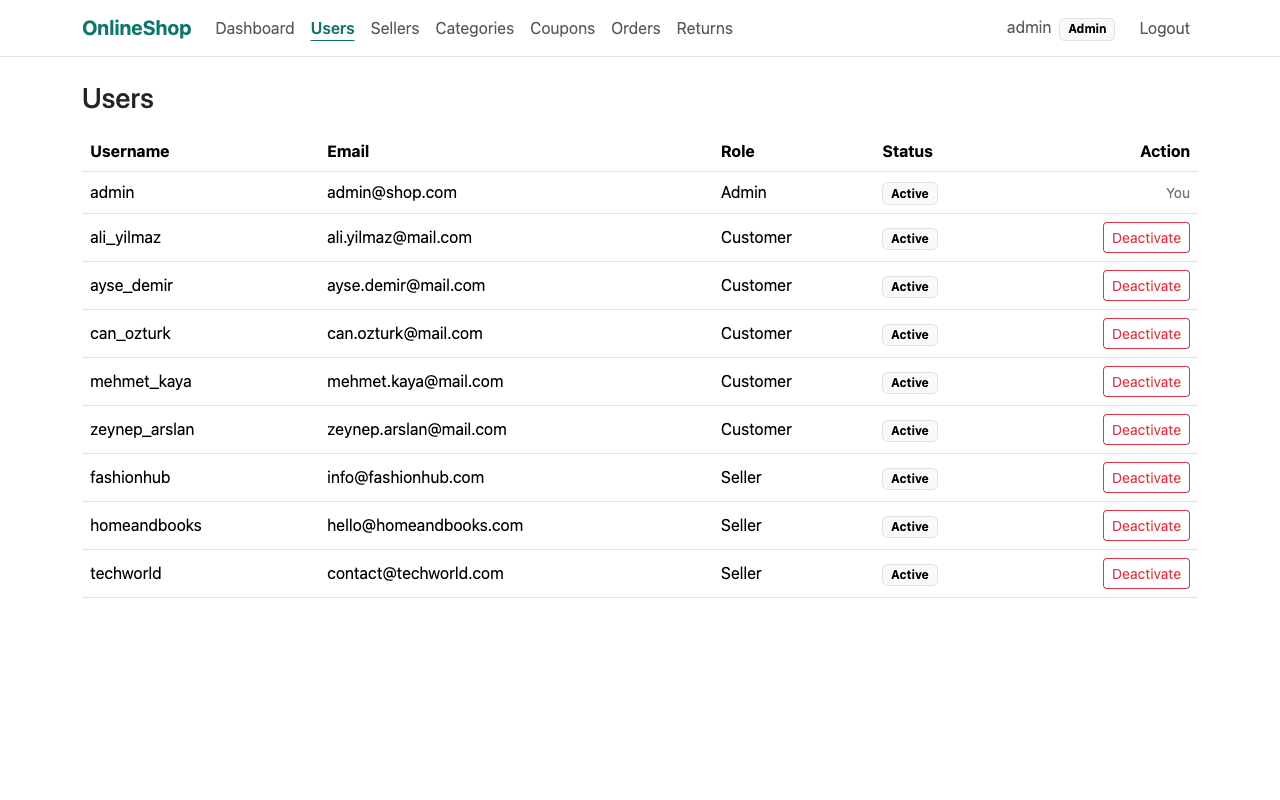
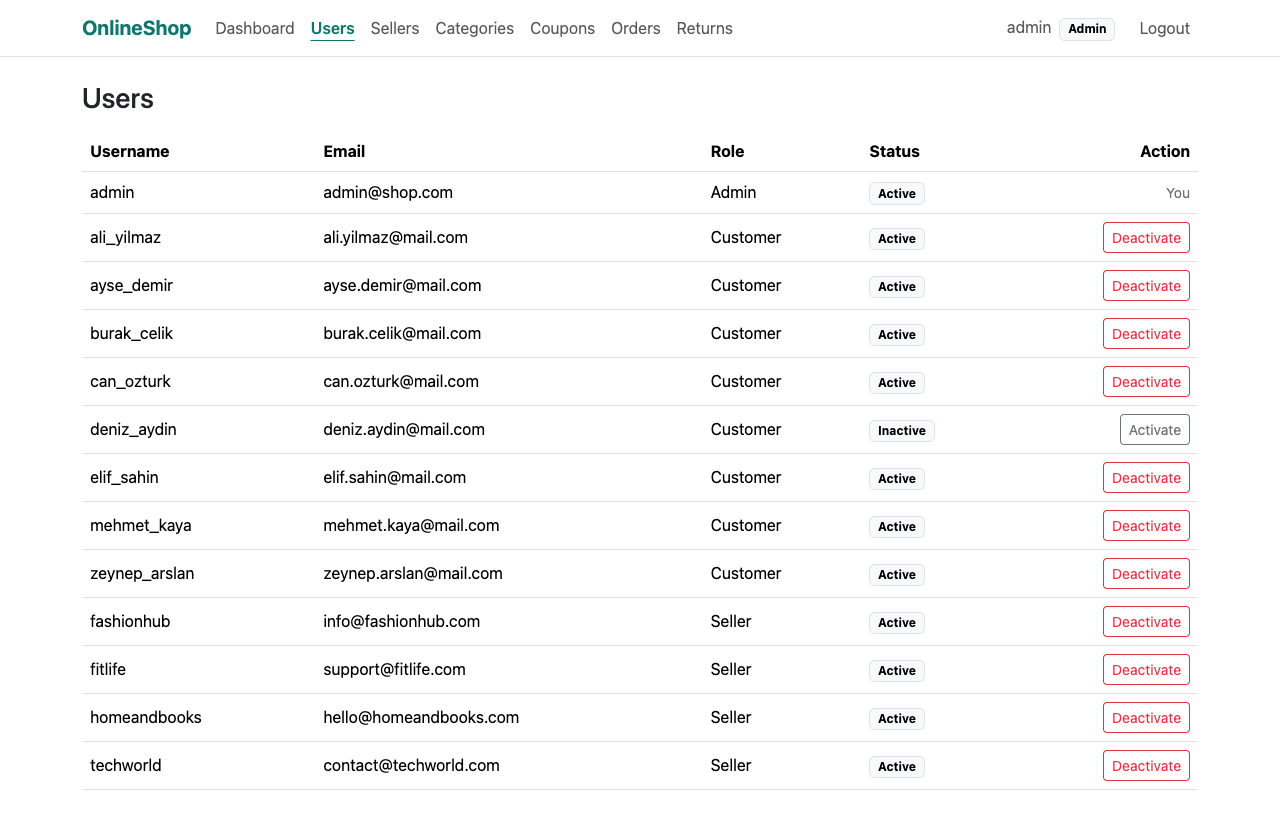
docs: retake screenshots with the team seed, update class diagrams

diff --git a/docs/diagrams/class/class-3-checkout.html b/docs/diagrams/class/class-3-checkout.html
@@ -21,9 +21,9 @@
     <p class="eyebrow">UML class · Online Shopping Management System</p>
     <h1>Placing an order · class diagram</h1>
     <div class="scroll">
-    <svg viewBox="0 0 1080 740" xmlns="http://www.w3.org/2000/svg" role="img" aria-labelledby="class-3-checkout-title class-3-checkout-desc">
+    <svg viewBox="0 0 1080 856" xmlns="http://www.w3.org/2000/svg" role="img" aria-labelledby="class-3-checkout-title class-3-checkout-desc">
       <title id="class-3-checkout-title">Placing an order · class diagram</title>
-      <desc id="class-3-checkout-desc">CheckoutController calls OrderService.placeOrder, which runs as one transaction and uses the cart, inventory, coupon, order and payment repositories.</desc>
+      <desc id="class-3-checkout-desc">CheckoutController calls OrderService.placeOrder, which runs as one transaction and uses the cart, inventory, coupon, order, payment and shipment repositories; previewOrder only reads, to show the summary before ordering.</desc>
       <defs>
         <marker id="uml-triangle" markerWidth="16" markerHeight="12" refX="15" refY="6" orient="auto" markerUnits="userSpaceOnUse">
           <polygon points="0 0, 16 6, 0 12" fill="#ffffff" stroke="#212529" stroke-width="1"/>
@@ -39,21 +39,23 @@
         </marker>
       </defs>
       <rect width="100%" height="100%" fill="#ffffff"/>
-      <path d="M 250,204 L 250,260" fill="none" stroke="#495057" stroke-width="1" stroke-dasharray="4,3" marker-end="url(#uml-open)"/>
+      <path d="M 250.0,224 L 250,260" fill="none" stroke="#495057" stroke-width="1" stroke-dasharray="4,3" marker-end="url(#uml-open)"/>
       <path d="M 460,286 L 492,286 Q 500,286 500,278 L 500,104 Q 500,96 508,96 L 600,96" fill="none" stroke="#495057" stroke-width="1" stroke-dasharray="4,3" marker-end="url(#uml-open)"/>
       <path d="M 460,312 L 532,312 Q 540,312 540,304 L 540,230 Q 540,222 548,222 L 600,222" fill="none" stroke="#495057" stroke-width="1" stroke-dasharray="4,3" marker-end="url(#uml-open)"/>
       <path d="M 460,338 L 600,338" fill="none" stroke="#495057" stroke-width="1" stroke-dasharray="4,3" marker-end="url(#uml-open)"/>
-      <path d="M 460,364 L 532,364 Q 540,364 540,372 L 540,456 Q 540,464 548,464 L 600,464" fill="none" stroke="#495057" stroke-width="1" stroke-dasharray="4,3" marker-end="url(#uml-open)"/>
-      <path d="M 460,390 L 492,390 Q 500,390 500,398 L 500,582 Q 500,590 508,590 L 600,590" fill="none" stroke="#495057" stroke-width="1" stroke-dasharray="4,3" marker-end="url(#uml-open)"/>
+      <path d="M 460,364 L 532,364 Q 540,364 540,372 L 540,476 Q 540,484 548,484 L 600,484" fill="none" stroke="#495057" stroke-width="1" stroke-dasharray="4,3" marker-end="url(#uml-open)"/>
+      <path d="M 460,390 L 492,390 Q 500,390 500,398 L 500,602 Q 500,610 508,610 L 600,610" fill="none" stroke="#495057" stroke-width="1" stroke-dasharray="4,3" marker-end="url(#uml-open)"/>
+      <path d="M 460,416 L 472,416 Q 480,416 480,424 L 480,708 Q 480,716 488,716 L 600,716" fill="none" stroke="#495057" stroke-width="1" stroke-dasharray="4,3" marker-end="url(#uml-open)"/>
       
-      <rect x="40" y="112" width="420" height="92" rx="6" fill="#ffffff"/>
-      <rect x="40" y="112" width="420" height="92" rx="6" fill="#ffffff" stroke="#212529" stroke-width="1"/>
+      <rect x="40" y="112" width="420" height="112" rx="6" fill="#ffffff"/>
+      <rect x="40" y="112" width="420" height="112" rx="6" fill="#ffffff" stroke="#212529" stroke-width="1"/>
       <text x="250.0" y="137" fill="#212529" font-size="14" font-weight="600" font-family="-apple-system, 'Segoe UI', Roboto, 'Helvetica Neue', Arial, sans-serif" text-anchor="middle">CheckoutController</text>
       <line x1="40" y1="152" x2="460" y2="152" stroke="rgba(33,37,41,0.18)" stroke-width="1"/>
       <text x="54" y="173" fill="#212529" font-size="11" font-family="ui-monospace, SFMono-Regular, Menlo, Consolas, monospace">+ checkout(user, model): String</text>
-      <text x="54" y="193" fill="#212529" font-size="11" font-family="ui-monospace, SFMono-Regular, Menlo, Consolas, monospace">+ placeOrder(user, addressId, ...): String</text>
-      <rect x="40" y="260" width="420" height="156" rx="6" fill="#ffffff"/>
-      <rect x="40" y="260" width="420" height="156" rx="6" fill="#f1f8f7" stroke="#0f766e" stroke-width="1"/>
+      <text x="54" y="193" fill="#212529" font-size="11" font-family="ui-monospace, SFMono-Regular, Menlo, Consolas, monospace">+ summary(user, companyId, code): Map</text>
+      <text x="54" y="213" fill="#212529" font-size="11" font-family="ui-monospace, SFMono-Regular, Menlo, Consolas, monospace">+ placeOrder(user, addressId, companyId, ...): String</text>
+      <rect x="40" y="260" width="420" height="196" rx="6" fill="#ffffff"/>
+      <rect x="40" y="260" width="420" height="196" rx="6" fill="#f1f8f7" stroke="#0f766e" stroke-width="1"/>
       <rect x="40" y="260" width="420" height="52" rx="6" fill="#dcedeb"/>
       <rect x="40" y="304" width="420" height="8" fill="#dcedeb"/>
       <text x="250.0" y="279" fill="#0f766e" font-size="10" font-family="ui-monospace, SFMono-Regular, Menlo, Consolas, monospace" text-anchor="middle" letter-spacing="0.04em">«service» · @Transactional</text>
@@ -61,9 +63,11 @@
       <line x1="40" y1="312" x2="460" y2="312" stroke="rgba(15,118,110,0.40)" stroke-width="1"/>
       <text x="54" y="333" fill="#212529" font-size="11" font-family="ui-monospace, SFMono-Regular, Menlo, Consolas, monospace">- PAYMENT_METHODS: List&lt;String&gt;</text>
       <line x1="40" y1="344" x2="460" y2="344" stroke="rgba(15,118,110,0.40)" stroke-width="1"/>
-      <text x="54" y="365" fill="#212529" font-size="11" font-family="ui-monospace, SFMono-Regular, Menlo, Consolas, monospace">+ placeOrder(customerId, addressId, code, method): int</text>
-      <text x="54" y="385" fill="#212529" font-size="11" font-family="ui-monospace, SFMono-Regular, Menlo, Consolas, monospace">- findValidCoupon(code, subtotal): Coupon</text>
-      <text x="54" y="405" fill="#212529" font-size="11" font-family="ui-monospace, SFMono-Regular, Menlo, Consolas, monospace">- calculateDiscount(coupon, subtotal): BigDecimal</text>
+      <text x="54" y="365" fill="#212529" font-size="11" font-family="ui-monospace, SFMono-Regular, Menlo, Consolas, monospace">+ placeOrder(customer, address, company, code, method): int</text>
+      <text x="54" y="385" fill="#212529" font-size="11" font-family="ui-monospace, SFMono-Regular, Menlo, Consolas, monospace">+ previewOrder(items, companyId, code): CheckoutSummary</text>
+      <text x="54" y="405" fill="#212529" font-size="11" font-family="ui-monospace, SFMono-Regular, Menlo, Consolas, monospace">+ cancelByCustomer(customerId, orderId): void</text>
+      <text x="54" y="425" fill="#212529" font-size="11" font-family="ui-monospace, SFMono-Regular, Menlo, Consolas, monospace">- findValidCoupon(found, code, subtotal): Coupon</text>
+      <text x="54" y="445" fill="#212529" font-size="11" font-family="ui-monospace, SFMono-Regular, Menlo, Consolas, monospace">- calculateDiscount(coupon, subtotal): BigDecimal</text>
       <rect x="600" y="40" width="440" height="112" rx="6" fill="#ffffff"/>
       <rect x="600" y="40" width="440" height="112" rx="6" fill="#ffffff" stroke="#212529" stroke-width="1"/>
       <text x="820.0" y="65" fill="#212529" font-size="14" font-weight="600" font-family="-apple-system, 'Segoe UI', Roboto, 'Helvetica Neue', Arial, sans-serif" text-anchor="middle">CartRepository</text>
@@ -77,39 +81,45 @@
       <line x1="600" y1="216" x2="1040" y2="216" stroke="rgba(33,37,41,0.18)" stroke-width="1"/>
       <text x="614" y="237" fill="#212529" font-size="11" font-family="ui-monospace, SFMono-Regular, Menlo, Consolas, monospace">+ lockStock(productId): int</text>
       <text x="614" y="257" fill="#212529" font-size="11" font-family="ui-monospace, SFMono-Regular, Menlo, Consolas, monospace">+ decreaseStock(productId, quantity): void</text>
-      <rect x="600" y="292" width="440" height="92" rx="6" fill="#ffffff"/>
-      <rect x="600" y="292" width="440" height="92" rx="6" fill="#ffffff" stroke="#212529" stroke-width="1"/>
+      <rect x="600" y="292" width="440" height="112" rx="6" fill="#ffffff"/>
+      <rect x="600" y="292" width="440" height="112" rx="6" fill="#ffffff" stroke="#212529" stroke-width="1"/>
       <text x="820.0" y="317" fill="#212529" font-size="14" font-weight="600" font-family="-apple-system, 'Segoe UI', Roboto, 'Helvetica Neue', Arial, sans-serif" text-anchor="middle">CouponRepository</text>
       <line x1="600" y1="332" x2="1040" y2="332" stroke="rgba(33,37,41,0.18)" stroke-width="1"/>
       <text x="614" y="353" fill="#212529" font-size="11" font-family="ui-monospace, SFMono-Regular, Menlo, Consolas, monospace">+ lockByCode(code): Optional&lt;Coupon&gt;</text>
-      <text x="614" y="373" fill="#212529" font-size="11" font-family="ui-monospace, SFMono-Regular, Menlo, Consolas, monospace">+ increaseUsedCount(couponId): void</text>
-      <rect x="600" y="408" width="440" height="112" rx="6" fill="#ffffff"/>
-      <rect x="600" y="408" width="440" height="112" rx="6" fill="#ffffff" stroke="#212529" stroke-width="1"/>
-      <text x="820.0" y="433" fill="#212529" font-size="14" font-weight="600" font-family="-apple-system, 'Segoe UI', Roboto, 'Helvetica Neue', Arial, sans-serif" text-anchor="middle">OrderRepository</text>
-      <line x1="600" y1="448" x2="1040" y2="448" stroke="rgba(33,37,41,0.18)" stroke-width="1"/>
-      <text x="614" y="469" fill="#212529" font-size="11" font-family="ui-monospace, SFMono-Regular, Menlo, Consolas, monospace">+ insertOrder(customerId, addressId, ...): int</text>
-      <text x="614" y="489" fill="#212529" font-size="11" font-family="ui-monospace, SFMono-Regular, Menlo, Consolas, monospace">+ insertItem(orderId, productId, qty, price): void</text>
-      <text x="614" y="509" fill="#212529" font-size="11" font-family="ui-monospace, SFMono-Regular, Menlo, Consolas, monospace">+ markPaid(orderId): void</text>
-      <rect x="600" y="544" width="440" height="92" rx="6" fill="#ffffff"/>
-      <rect x="600" y="544" width="440" height="92" rx="6" fill="#ffffff" stroke="#212529" stroke-width="1"/>
-      <text x="820.0" y="569" fill="#212529" font-size="14" font-weight="600" font-family="-apple-system, 'Segoe UI', Roboto, 'Helvetica Neue', Arial, sans-serif" text-anchor="middle">PaymentRepository</text>
-      <line x1="600" y1="584" x2="1040" y2="584" stroke="rgba(33,37,41,0.18)" stroke-width="1"/>
-      <text x="614" y="605" fill="#212529" font-size="11" font-family="ui-monospace, SFMono-Regular, Menlo, Consolas, monospace">+ insertCompleted(orderId, method, amount): void</text>
-      <text x="614" y="625" fill="#212529" font-size="11" font-family="ui-monospace, SFMono-Regular, Menlo, Consolas, monospace">+ insertPending(orderId, method, amount): void</text>
-      <line x1="40" y1="676" x2="1040" y2="676" stroke="rgba(33,37,41,0.18)" stroke-width="1"/>
-      <text x="40" y="696" fill="#5c636a" font-size="9" font-family="ui-monospace, SFMono-Regular, Menlo, Consolas, monospace" letter-spacing="0.16em">LEGEND · RELATIONSHIPS</text>
-      <line x1="40.0" y1="716" x2="72.0" y2="716" stroke="#212529" stroke-width="1" marker-end="url(#uml-triangle)"/>
-      <text x="82.0" y="720" fill="#5c636a" font-size="10.5" font-family="-apple-system, 'Segoe UI', Roboto, 'Helvetica Neue', Arial, sans-serif">Inheritance</text>
-      <line x1="206.66666666666666" y1="716" x2="238.66666666666666" y2="716" stroke="#212529" stroke-width="1" stroke-dasharray="5,4" marker-end="url(#uml-triangle)"/>
-      <text x="248.66666666666666" y="720" fill="#5c636a" font-size="10.5" font-family="-apple-system, 'Segoe UI', Roboto, 'Helvetica Neue', Arial, sans-serif">Realization</text>
-      <line x1="373.3333333333333" y1="716" x2="405.3333333333333" y2="716" stroke="#212529" stroke-width="1" marker-start="url(#uml-diamond-filled)"/>
-      <text x="415.3333333333333" y="720" fill="#5c636a" font-size="10.5" font-family="-apple-system, 'Segoe UI', Roboto, 'Helvetica Neue', Arial, sans-serif">Composition</text>
-      <line x1="540.0" y1="716" x2="572.0" y2="716" stroke="#212529" stroke-width="1" marker-start="url(#uml-diamond-hollow)"/>
-      <text x="582.0" y="720" fill="#5c636a" font-size="10.5" font-family="-apple-system, 'Segoe UI', Roboto, 'Helvetica Neue', Arial, sans-serif">Aggregation</text>
-      <line x1="706.6666666666666" y1="716" x2="738.6666666666666" y2="716" stroke="#495057" stroke-width="1" marker-end="url(#uml-open)"/>
-      <text x="748.6666666666666" y="720" fill="#5c636a" font-size="10.5" font-family="-apple-system, 'Segoe UI', Roboto, 'Helvetica Neue', Arial, sans-serif">Association</text>
-      <line x1="873.3333333333333" y1="716" x2="905.3333333333333" y2="716" stroke="#495057" stroke-width="1" stroke-dasharray="4,3" marker-end="url(#uml-open)"/>
-      <text x="915.3333333333333" y="720" fill="#5c636a" font-size="10.5" font-family="-apple-system, 'Segoe UI', Roboto, 'Helvetica Neue', Arial, sans-serif">Dependency · uses</text>
+      <text x="614" y="373" fill="#212529" font-size="11" font-family="ui-monospace, SFMono-Regular, Menlo, Consolas, monospace">+ findByCode(code): Optional&lt;Coupon&gt;</text>
+      <text x="614" y="393" fill="#212529" font-size="11" font-family="ui-monospace, SFMono-Regular, Menlo, Consolas, monospace">+ increaseUsedCount(couponId): void</text>
+      <rect x="600" y="428" width="440" height="112" rx="6" fill="#ffffff"/>
+      <rect x="600" y="428" width="440" height="112" rx="6" fill="#ffffff" stroke="#212529" stroke-width="1"/>
+      <text x="820.0" y="453" fill="#212529" font-size="14" font-weight="600" font-family="-apple-system, 'Segoe UI', Roboto, 'Helvetica Neue', Arial, sans-serif" text-anchor="middle">OrderRepository</text>
+      <line x1="600" y1="468" x2="1040" y2="468" stroke="rgba(33,37,41,0.18)" stroke-width="1"/>
+      <text x="614" y="489" fill="#212529" font-size="11" font-family="ui-monospace, SFMono-Regular, Menlo, Consolas, monospace">+ insertOrder(customerId, addressId, ..., fee, ...): int</text>
+      <text x="614" y="509" fill="#212529" font-size="11" font-family="ui-monospace, SFMono-Regular, Menlo, Consolas, monospace">+ insertItem(orderId, productId, qty, price): void</text>
+      <text x="614" y="529" fill="#212529" font-size="11" font-family="ui-monospace, SFMono-Regular, Menlo, Consolas, monospace">+ markPaid(orderId): void</text>
+      <rect x="600" y="564" width="440" height="92" rx="6" fill="#ffffff"/>
+      <rect x="600" y="564" width="440" height="92" rx="6" fill="#ffffff" stroke="#212529" stroke-width="1"/>
+      <text x="820.0" y="589" fill="#212529" font-size="14" font-weight="600" font-family="-apple-system, 'Segoe UI', Roboto, 'Helvetica Neue', Arial, sans-serif" text-anchor="middle">PaymentRepository</text>
+      <line x1="600" y1="604" x2="1040" y2="604" stroke="rgba(33,37,41,0.18)" stroke-width="1"/>
+      <text x="614" y="625" fill="#212529" font-size="11" font-family="ui-monospace, SFMono-Regular, Menlo, Consolas, monospace">+ insertCompleted(orderId, method, amount): void</text>
+      <text x="614" y="645" fill="#212529" font-size="11" font-family="ui-monospace, SFMono-Regular, Menlo, Consolas, monospace">+ insertPending(orderId, method, amount): void</text>
+      <rect x="600" y="680" width="440" height="72" rx="6" fill="#ffffff"/>
+      <rect x="600" y="680" width="440" height="72" rx="6" fill="#ffffff" stroke="#212529" stroke-width="1"/>
+      <text x="820.0" y="705" fill="#212529" font-size="14" font-weight="600" font-family="-apple-system, 'Segoe UI', Roboto, 'Helvetica Neue', Arial, sans-serif" text-anchor="middle">ShipmentRepository</text>
+      <line x1="600" y1="720" x2="1040" y2="720" stroke="rgba(33,37,41,0.18)" stroke-width="1"/>
+      <text x="614" y="741" fill="#212529" font-size="11" font-family="ui-monospace, SFMono-Regular, Menlo, Consolas, monospace">+ findCompany(companyId): Optional&lt;ShippingCompany&gt;</text>
+      <line x1="40" y1="792" x2="1040" y2="792" stroke="rgba(33,37,41,0.18)" stroke-width="1"/>
+      <text x="40" y="812" fill="#5c636a" font-size="9" font-family="ui-monospace, SFMono-Regular, Menlo, Consolas, monospace" letter-spacing="0.16em">LEGEND · RELATIONSHIPS</text>
+      <line x1="40.0" y1="832" x2="72.0" y2="832" stroke="#212529" stroke-width="1" marker-end="url(#uml-triangle)"/>
+      <text x="82.0" y="836" fill="#5c636a" font-size="10.5" font-family="-apple-system, 'Segoe UI', Roboto, 'Helvetica Neue', Arial, sans-serif">Inheritance</text>
+      <line x1="206.66666666666666" y1="832" x2="238.66666666666666" y2="832" stroke="#212529" stroke-width="1" stroke-dasharray="5,4" marker-end="url(#uml-triangle)"/>
+      <text x="248.66666666666666" y="836" fill="#5c636a" font-size="10.5" font-family="-apple-system, 'Segoe UI', Roboto, 'Helvetica Neue', Arial, sans-serif">Realization</text>
+      <line x1="373.3333333333333" y1="832" x2="405.3333333333333" y2="832" stroke="#212529" stroke-width="1" marker-start="url(#uml-diamond-filled)"/>
+      <text x="415.3333333333333" y="836" fill="#5c636a" font-size="10.5" font-family="-apple-system, 'Segoe UI', Roboto, 'Helvetica Neue', Arial, sans-serif">Composition</text>
+      <line x1="540.0" y1="832" x2="572.0" y2="832" stroke="#212529" stroke-width="1" marker-start="url(#uml-diamond-hollow)"/>
+      <text x="582.0" y="836" fill="#5c636a" font-size="10.5" font-family="-apple-system, 'Segoe UI', Roboto, 'Helvetica Neue', Arial, sans-serif">Aggregation</text>
+      <line x1="706.6666666666666" y1="832" x2="738.6666666666666" y2="832" stroke="#495057" stroke-width="1" marker-end="url(#uml-open)"/>
+      <text x="748.6666666666666" y="836" fill="#5c636a" font-size="10.5" font-family="-apple-system, 'Segoe UI', Roboto, 'Helvetica Neue', Arial, sans-serif">Association</text>
+      <line x1="873.3333333333333" y1="832" x2="905.3333333333333" y2="832" stroke="#495057" stroke-width="1" stroke-dasharray="4,3" marker-end="url(#uml-open)"/>
+      <text x="915.3333333333333" y="836" fill="#5c636a" font-size="10.5" font-family="-apple-system, 'Segoe UI', Roboto, 'Helvetica Neue', Arial, sans-serif">Dependency · uses</text>
     </svg>
     </div>
   </div>

diff --git a/docs/diagrams/class/class-1-overview.html b/docs/diagrams/class/class-1-overview.html
@@ -65,18 +65,18 @@
       <text x="580.0" y="59" fill="#5c636a" font-size="10" font-family="ui-monospace, SFMono-Regular, Menlo, Consolas, monospace" text-anchor="middle" letter-spacing="0.04em">«package»</text>
       <text x="580.0" y="78" fill="#212529" font-size="14" font-weight="600" font-family="-apple-system, 'Segoe UI', Roboto, 'Helvetica Neue', Arial, sans-serif" text-anchor="middle">controller</text>
       <line x1="400" y1="92" x2="760" y2="92" stroke="rgba(33,37,41,0.18)" stroke-width="1"/>
-      <text x="414" y="113" fill="#212529" font-size="11" font-family="ui-monospace, SFMono-Regular, Menlo, Consolas, monospace">10 controllers, 3 helpers</text>
-      <text x="414" y="133" fill="#212529" font-size="11" font-family="ui-monospace, SFMono-Regular, Menlo, Consolas, monospace">LoginController · HomeController</text>
-      <text x="414" y="153" fill="#212529" font-size="11" font-family="ui-monospace, SFMono-Regular, Menlo, Consolas, monospace">ShopController · CartController</text>
-      <text x="414" y="173" fill="#212529" font-size="11" font-family="ui-monospace, SFMono-Regular, Menlo, Consolas, monospace">CheckoutController · OrderController</text>
-      <text x="414" y="193" fill="#212529" font-size="11" font-family="ui-monospace, SFMono-Regular, Menlo, Consolas, monospace">SellerController · Admin*Controller (3)</text>
+      <text x="414" y="113" fill="#212529" font-size="11" font-family="ui-monospace, SFMono-Regular, Menlo, Consolas, monospace">11 controllers, 3 helpers</text>
+      <text x="414" y="133" fill="#212529" font-size="11" font-family="ui-monospace, SFMono-Regular, Menlo, Consolas, monospace">LoginController · ShopController · CartController</text>
+      <text x="414" y="153" fill="#212529" font-size="11" font-family="ui-monospace, SFMono-Regular, Menlo, Consolas, monospace">CheckoutController · OrderController</text>
+      <text x="414" y="173" fill="#212529" font-size="11" font-family="ui-monospace, SFMono-Regular, Menlo, Consolas, monospace">AddressController · SellerController</text>
+      <text x="414" y="193" fill="#212529" font-size="11" font-family="ui-monospace, SFMono-Regular, Menlo, Consolas, monospace">Admin*Controller (3) · HomeController</text>
       <rect x="840" y="40" width="280" height="164" rx="6" fill="#ffffff"/>
       <rect x="840" y="40" width="280" height="164" rx="6" fill="#ffffff" stroke="#212529" stroke-width="1"/>
       <text x="980.0" y="59" fill="#5c636a" font-size="10" font-family="ui-monospace, SFMono-Regular, Menlo, Consolas, monospace" text-anchor="middle" letter-spacing="0.04em">«package»</text>
       <text x="980.0" y="78" fill="#212529" font-size="14" font-weight="600" font-family="-apple-system, 'Segoe UI', Roboto, 'Helvetica Neue', Arial, sans-serif" text-anchor="middle">templates</text>
       <line x1="840" y1="92" x2="1120" y2="92" stroke="rgba(33,37,41,0.18)" stroke-width="1"/>
       <text x="854" y="113" fill="#212529" font-size="11" font-family="ui-monospace, SFMono-Regular, Menlo, Consolas, monospace">login.html · error pages</text>
-      <text x="854" y="133" fill="#212529" font-size="11" font-family="ui-monospace, SFMono-Regular, Menlo, Consolas, monospace">shop/ (6 pages)</text>
+      <text x="854" y="133" fill="#212529" font-size="11" font-family="ui-monospace, SFMono-Regular, Menlo, Consolas, monospace">shop/ (8 pages)</text>
       <text x="854" y="153" fill="#212529" font-size="11" font-family="ui-monospace, SFMono-Regular, Menlo, Consolas, monospace">seller/ (4 pages)</text>
       <text x="854" y="173" fill="#212529" font-size="11" font-family="ui-monospace, SFMono-Regular, Menlo, Consolas, monospace">admin/ (10 pages)</text>
       <text x="854" y="193" fill="#212529" font-size="11" font-family="ui-monospace, SFMono-Regular, Menlo, Consolas, monospace">fragments/layout.html</text>
@@ -87,9 +87,9 @@
       <text x="580.0" y="279" fill="#0f766e" font-size="10" font-family="ui-monospace, SFMono-Regular, Menlo, Consolas, monospace" text-anchor="middle" letter-spacing="0.04em">«package» · @Transactional</text>
       <text x="580.0" y="298" fill="#212529" font-size="14" font-weight="600" font-family="-apple-system, 'Segoe UI', Roboto, 'Helvetica Neue', Arial, sans-serif" text-anchor="middle">service</text>
       <line x1="400" y1="312" x2="760" y2="312" stroke="rgba(15,118,110,0.40)" stroke-width="1"/>
-      <text x="414" y="333" fill="#212529" font-size="11" font-family="ui-monospace, SFMono-Regular, Menlo, Consolas, monospace">8 services, 7 helper classes</text>
-      <text x="414" y="353" fill="#212529" font-size="11" font-family="ui-monospace, SFMono-Regular, Menlo, Consolas, monospace">AuthService · PasswordService</text>
-      <text x="414" y="373" fill="#212529" font-size="11" font-family="ui-monospace, SFMono-Regular, Menlo, Consolas, monospace">CartService · OrderService</text>
+      <text x="414" y="333" fill="#212529" font-size="11" font-family="ui-monospace, SFMono-Regular, Menlo, Consolas, monospace">9 services, 7 helper classes</text>
+      <text x="414" y="353" fill="#212529" font-size="11" font-family="ui-monospace, SFMono-Regular, Menlo, Consolas, monospace">AuthService · PasswordService · CartService</text>
+      <text x="414" y="373" fill="#212529" font-size="11" font-family="ui-monospace, SFMono-Regular, Menlo, Consolas, monospace">OrderService · AddressService</text>
       <text x="414" y="393" fill="#212529" font-size="11" font-family="ui-monospace, SFMono-Regular, Menlo, Consolas, monospace">ReviewService · ReturnService</text>
       <text x="414" y="413" fill="#212529" font-size="11" font-family="ui-monospace, SFMono-Regular, Menlo, Consolas, monospace">SellerProductService · AdminService</text>
       <rect x="400" y="480" width="360" height="164" rx="6" fill="#ffffff"/>
@@ -107,11 +107,11 @@
       <text x="980.0" y="499" fill="#5c636a" font-size="10" font-family="ui-monospace, SFMono-Regular, Menlo, Consolas, monospace" text-anchor="middle" letter-spacing="0.04em">«package»</text>
       <text x="980.0" y="518" fill="#212529" font-size="14" font-weight="600" font-family="-apple-system, 'Segoe UI', Roboto, 'Helvetica Neue', Arial, sans-serif" text-anchor="middle">model</text>
       <line x1="840" y1="532" x2="1120" y2="532" stroke="rgba(33,37,41,0.18)" stroke-width="1"/>
-      <text x="854" y="553" fill="#212529" font-size="11" font-family="ui-monospace, SFMono-Regular, Menlo, Consolas, monospace">29 records and form classes</text>
+      <text x="854" y="553" fill="#212529" font-size="11" font-family="ui-monospace, SFMono-Regular, Menlo, Consolas, monospace">32 records and form classes</text>
       <text x="854" y="573" fill="#212529" font-size="11" font-family="ui-monospace, SFMono-Regular, Menlo, Consolas, monospace">SessionUser · UserAccount</text>
       <text x="854" y="593" fill="#212529" font-size="11" font-family="ui-monospace, SFMono-Regular, Menlo, Consolas, monospace">ProductView · CartItemView</text>
-      <text x="854" y="613" fill="#212529" font-size="11" font-family="ui-monospace, SFMono-Regular, Menlo, Consolas, monospace">OrderView · PaymentView</text>
-      <text x="854" y="633" fill="#212529" font-size="11" font-family="ui-monospace, SFMono-Regular, Menlo, Consolas, monospace">ProductForm · CouponForm</text>
+      <text x="854" y="613" fill="#212529" font-size="11" font-family="ui-monospace, SFMono-Regular, Menlo, Consolas, monospace">OrderView · CheckoutSummary</text>
+      <text x="854" y="633" fill="#212529" font-size="11" font-family="ui-monospace, SFMono-Regular, Menlo, Consolas, monospace">ProductForm · AddressForm</text>
       <rect x="400" y="700" width="360" height="124" rx="6" fill="#ffffff"/>
       <rect x="400" y="700" width="360" height="124" rx="6" fill="#ffffff" stroke="#212529" stroke-width="1"/>
       <text x="580.0" y="719" fill="#5c636a" font-size="10" font-family="ui-monospace, SFMono-Regular, Menlo, Consolas, monospace" text-anchor="middle" letter-spacing="0.04em">«database»</text>

diff --git a/docs/diagrams/class/class-5-admin.html b/docs/diagrams/class/class-5-admin.html
@@ -54,7 +54,7 @@
       <text x="454" y="121" fill="#212529" font-size="11" font-family="ui-monospace, SFMono-Regular, Menlo, Consolas, monospace">+ changeStatus(id, status): String</text>
       <text x="454" y="141" fill="#212529" font-size="11" font-family="ui-monospace, SFMono-Regular, Menlo, Consolas, monospace">+ createShipment(id, companyId, no): String</text>
       <text x="454" y="161" fill="#212529" font-size="11" font-family="ui-monospace, SFMono-Regular, Menlo, Consolas, monospace">+ markDelivered(id): String</text>
-      <text x="454" y="181" fill="#212529" font-size="11" font-family="ui-monospace, SFMono-Regular, Menlo, Consolas, monospace">+ refundReturn(id): String</text>
+      <text x="454" y="181" fill="#212529" font-size="11" font-family="ui-monospace, SFMono-Regular, Menlo, Consolas, monospace">+ rejectReturn(id, rejectReason): String</text>
       <rect x="40" y="256" width="360" height="152" rx="6" fill="#ffffff"/>
       <rect x="40" y="256" width="360" height="152" rx="6" fill="#ffffff" stroke="#212529" stroke-width="1"/>
       <text x="220.0" y="281" fill="#212529" font-size="14" font-weight="600" font-family="-apple-system, 'Segoe UI', Roboto, 'Helvetica Neue', Arial, sans-serif" text-anchor="middle">AdminRepository</text>
@@ -63,7 +63,7 @@
       <text x="54" y="337" fill="#212529" font-size="11" font-family="ui-monospace, SFMono-Regular, Menlo, Consolas, monospace">+ restoreStock(orderId): void</text>
       <text x="54" y="357" fill="#212529" font-size="11" font-family="ui-monospace, SFMono-Regular, Menlo, Consolas, monospace">+ releaseCoupon(orderId): void</text>
       <text x="54" y="377" fill="#212529" font-size="11" font-family="ui-monospace, SFMono-Regular, Menlo, Consolas, monospace">+ cancelPayments(orderId): void</text>
-      <text x="54" y="397" fill="#212529" font-size="11" font-family="ui-monospace, SFMono-Regular, Menlo, Consolas, monospace">+ lockReturn(returnId): Optional&lt;…&gt;</text>
+      <text x="54" y="397" fill="#212529" font-size="11" font-family="ui-monospace, SFMono-Regular, Menlo, Consolas, monospace">+ rejectReturn(returnId, reason): void</text>
       <rect x="440" y="256" width="360" height="164" rx="6" fill="#ffffff"/>
       <rect x="440" y="256" width="360" height="164" rx="6" fill="#f1f8f7" stroke="#0f766e" stroke-width="1"/>
       <rect x="440" y="256" width="360" height="52" rx="6" fill="#dcedeb"/>
@@ -75,7 +75,7 @@
       <text x="454" y="349" fill="#212529" font-size="11" font-family="ui-monospace, SFMono-Regular, Menlo, Consolas, monospace">+ createShipment(orderId, companyId, no): void</text>
       <text x="454" y="369" fill="#212529" font-size="11" font-family="ui-monospace, SFMono-Regular, Menlo, Consolas, monospace">+ markDelivered(orderId): void</text>
       <text x="454" y="389" fill="#212529" font-size="11" font-family="ui-monospace, SFMono-Regular, Menlo, Consolas, monospace">+ refundReturn(returnId): void</text>
-      <text x="454" y="409" fill="#212529" font-size="11" font-family="ui-monospace, SFMono-Regular, Menlo, Consolas, monospace">+ addCoupon(form: CouponForm): void</text>
+      <text x="454" y="409" fill="#212529" font-size="11" font-family="ui-monospace, SFMono-Regular, Menlo, Consolas, monospace">+ rejectReturn(returnId, reason): void</text>
       <rect x="840" y="256" width="360" height="112" rx="6" fill="#ffffff"/>
       <rect x="840" y="256" width="360" height="112" rx="6" fill="#ffffff" stroke="#212529" stroke-width="1"/>
       <text x="1020.0" y="281" fill="#212529" font-size="14" font-weight="600" font-family="-apple-system, 'Segoe UI', Roboto, 'Helvetica Neue', Arial, sans-serif" text-anchor="middle">CategoryRepository</text>
